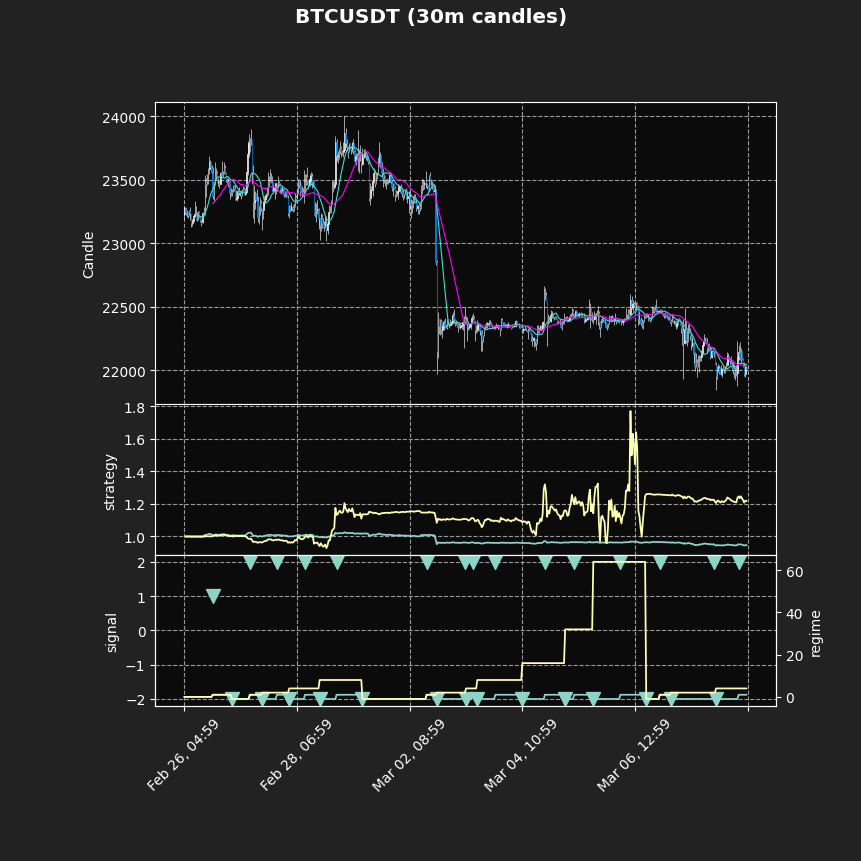
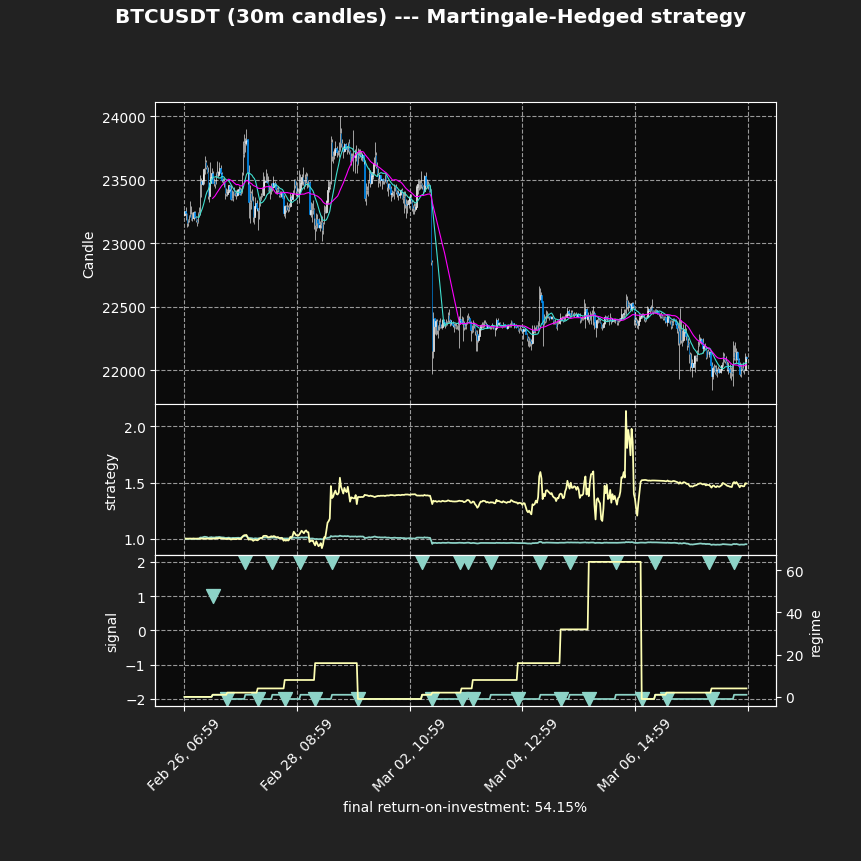
expand to a compilation of all colab notebooks focused on theme

diff --git a/results_SVC.py b/results_SVC.py
@@ -1,0 +1,75 @@
+from sklearn.svm import SVC
+import pandas as pd
+import numpy as np
+
+import bitcharts as bits
+import mplfinance as mpf
+
+
+def strat_compute_SVC(chart_obj):
+
+  df = chart_obj.DATAFRAME
+  '''COMPUTE STRATEGY -- MARKET V STRAT RESULTS '''
+  data = pd.DataFrame(df['close'])
+  data['market'] = np.log(data / data.shift())
+  data.dropna(inplace=True)
+
+  '''LAGGED SIGNS OF LOG RATES OF RETURN 
+  credit: Yves Hilpisch. 2018. Python for Finance: Analyze Big Financial Data (2nd. ed.). O'Reilly Media, Inc. '''
+  lags = 6
+  cols = []
+  for lag in range(1, lags + 1):
+    col = 'lag_{}'.format(lag)
+    data[col] = np.sign(data['market'].shift(lag))
+    cols.append(col)
+    data.dropna(inplace=True)
+
+  model = SVC(gamma='auto')
+  model.fit(data[cols], np.sign(data['market']))
+
+  data['actual_sign'] = np.sign(data['market'])
+  data['prediction'] = model.predict(data[cols])
+
+  data['strategy'] = data['prediction'] * data['market']
+  data[['market','strategy']]=data[['market','strategy']].cumsum().apply(np.exp) 
+
+  strategy_gain = data['strategy'].iloc[-1] - data['market'].iloc[-1]
+
+  chart_obj.message = 'final anticipated ROI: {:.2f}%'.format(strategy_gain*100)
+  print(chart_obj.message )
+
+  return data 
+
+
+def backtest():
+  
+  chart = bits.Chart()
+
+  chart.coin = "BTC"
+  chart.market = "USDT"
+  chart.candles = "1h"
+  
+  chart.coinpair()
+  
+  df = chart.DATAFRAME
+
+  data = strat_compute_SVC(chart)
+  diff_rows = df['close'].shape[0] - data['strategy'].shape[0]
+
+  'PLOTTING'
+  ap = [
+        mpf.make_addplot(data['market'],panel=1,type='line',ylabel='strategy',secondary_y=False),
+        mpf.make_addplot(data['strategy'],panel=1,type='line',secondary_y=False),
+        mpf.make_addplot(data['actual_sign'],panel=2,type='line',ylabel='prediction'),
+        mpf.make_addplot(data['prediction'],panel=2,type='line',ylabel='prediction')
+  ]
+
+  s  = mpf.make_mpf_style(base_mpf_style='nightclouds',figcolor='#222')
+
+
+  mpf.plot(df[diff_rows:], title=chart.coin+chart.market+"({} candles) -- Support Vector Machines".format(chart.candles),\
+          mav=(12,26),type='candle',ylabel='Candle',addplot=ap,panel_ratios=(2,1),xlabel=chart.message,\
+          figratio=(1,1),figscale=1.5,style=s)
+  
+
+backtest()

diff --git a/results_mart.py b/results_mart.py
@@ -1,8 +1,7 @@
 import bitcharts as bits 
 import mplfinance as mpf
 
-
-def backtest(mart):
+def backtest(mart,title_extra=''):
 
   chart = bits.Chart()
   
@@ -29,12 +28,14 @@ def backtest(mart):
 
   s  = mpf.make_mpf_style(base_mpf_style='nightclouds',figcolor='#222')
 
-  mpf.plot(df, title=chart.coin+chart.market+" ({} candles)".format(chart.candles),\
-          mav=(12,26), type='candle',ylabel='Candle',addplot=ap,panel_ratios=(2,1),\
+  mpf.plot(df, title=chart.coin+chart.market+" ({} candles) {}".format(chart.candles,title_extra),\
+          mav=(12,26), type='candle',ylabel='Candle',addplot=ap,panel_ratios=(2,1),xlabel=chart.message,\
           figratio=(1,1),figscale=1.5,style=s)
   
+string='Without Martingale'
+print('\n'+string)
+backtest(False,'--- '+string)
 
-print('\nWithout Martingale')
-backtest(False)
-print('\nWith Martingale-Hedged strategy')
-backtest(True)
+string='Martingale-Hedged strategy'
+print('\n'+string)
+backtest(True,'--- '+string)

diff --git a/bitcharts/main.py b/bitcharts/main.py
@@ -29,11 +29,14 @@ class Chart:
         time interval for candles (default: 30m)
     DATAFRAME : <pandas.DataFrame object>
         financial data of price activity loaded from above information.
+    message : str
+        any message from any external function to store on Chart class (easy migration across modules) 
     '''
     self.coin = coin
     self.market = market
     self.candles = candles
     self.DATAFRAME = []
+    self.message = ''
 
   def get_bars(self):
 
@@ -124,8 +127,12 @@ class Chart:
 
     strategy_gain = df['strategy'].iloc[-1] - df['market'].iloc[-1]
 
-    print('final return-on-investment: {:.2f}%'.format(strategy_gain*100) )
+    self.message = 'final return-on-investment: {:.2f}%'.format(strategy_gain*100)
+
+    print(self.message)
 
     df["signal"][df["signal"] == 0.0] = np.nan
+
+
 
 

diff --git a/README.md b/README.md
@@ -1,26 +1,62 @@
-# bitcharts
-
-This repository contains restructured material from the Google Colab notebook titled: [<b><i>Coupled Martingale Strategy Testing on Bitcoin Trading</i> (Garcia)</b> ](https://colab.research.google.com/drive/1SnWa53xzA83IYTlgqP8eOx5LB82ux8SG?usp=sharing) in a project format. Usage (terminal):
-
-```ruby
-git clone ...
-cd bitcharts
-python scripts.py
-```
-
-## Continuity
-
-The contents from this project are rooted on the Martingale strategy which is showcased in the [<b><i>Martingale DCA on Coin Flip Games</i> (Garcia)</b>](https://colab.research.google.com/drive/1ZK_eW-kyHN3vMjPN_D0TAerG6J631ooV?usp=sharing) Google Colab Notebook.
-
 #### Disclaimer : Not financial advice
 <sub>
 The information contained on this Colab notebook site, resources available for download and associated material thereof ("the Media") are not intended as, and shall not be understood or construed as, financial advice. Andrew Garcia ("the Author") is not an attorney, accountant nor financial advisor, nor is he holding himself out to be, and the information contained on this site is not a substitute for financial advice from a professional who is aware of the facts and circumstances of your individual situation. Though the Author has attempted to provide information that is accurate and valuable, nothing available on or through the Media should be understood as a recommendation that you should not consult with a financial professional to address your particular information. On that note, the Author expressly recommends that you seek advice from a professional. 
 </sub>
 
-
 <sub>
 The Author is also not endorsing the Martingale strategy nor any strategy explained or showcased in the Media. The Author shall not be held liable or responsible for any errors or omissions on this site, nor for any damage you may suffer as a result of failing to seek competent financial advice from a professional who is familiar with your situation.
 </sub>
 
+# bitcharts
+
+This repository contains restructured material from Google Colab notebooks drafted by the Author (see below) 
+
+To import this repository to your local environment and access it (on terminal):
+
+```ruby
+git clone git@github.com:[your-github-username]/voxelmap.git
+cd bitcharts
+```
+
+It is recommended you run this project using a virtualenv virtual environment. To do so, follow the below simple protocol to create the virtual environment:
+
+```ruby
+virtualenv venv
+source venv/bin/activate
+pip install -r requirements.txt
+```
+Once the virtual environment is activated, run the `results_` scripts
+
+## Martingale
+
+Results adapted from the Colab notebook [<b><i>Coupled Martingale Strategy Testing on Bitcoin Trading</i> (Garcia)</b> ](https://colab.research.google.com/drive/1SnWa53xzA83IYTlgqP8eOx5LB82ux8SG?usp=sharing) in a project format. 
+
+#### Continuity
+
+These results are rooted on the Martingale strategy which is showcased in the [<b><i>Martingale DCA on Coin Flip Games</i> (Garcia)</b>](https://colab.research.google.com/drive/1ZK_eW-kyHN3vMjPN_D0TAerG6J631ooV?usp=sharing) Google Colab Notebook.
+
+#### Terminal Commands
+
+```ruby
+python results_mart.py
+```
 
 ![](img/Figure_1.png)
+
+
+## Support Vector Machines
+
+Results adapted from the Colab notebook [<b><i>Support Vector Machines on Bitcoin Prices</i> (Garcia)</b> ](https://colab.research.google.com/drive/11aveFb9tdg33A2tDnDQfjRkJ4KaGs29x?usp=sharing) in a project format. 
+
+
+#### Terminal Commands
+
+```ruby
+python results_SVC.py
+```
+
+![](img/Figure_2.png)
+
+
+
+
